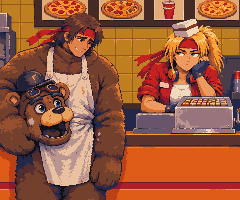
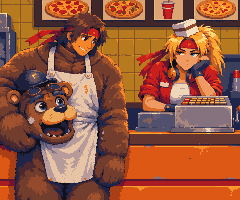
Space Voyagers II: the pause chip and TURN BACK on touch; art batch 2 final (rooms, endings, act cards, the Long Haul's sky) and its report

diff --git a/themes/voyagers2/render/index.ts b/themes/voyagers2/render/index.ts
@@ -19,7 +19,9 @@ import type { HudState } from './hud'
 import { computeLayout } from './layout'
 import type { Layout, Screen } from './layout'
 import { C, SPACE } from './palette'
-import { rect, textC } from './pix'
+import { frame as border, rect, textC } from './pix'
+
+const running = (w: Voyage): boolean => w.mission.stage === 'fly' || w.mission.stage === 'launch' || w.mission.stage === 'auto'
 import { createScene } from './scene'
 import type { Scene3D, SkyPiece } from './scene'
 
@@ -98,7 +100,21 @@ export function createRenderer(canvas: HTMLCanvasElement): Renderer {
       if (ui.paused) {
         rect(g, C.bakelite, 0, Math.floor(l.view.h / 2) - 14, l.W, 26)
         textC(g, 'PAUSED', l.W / 2, Math.floor(l.view.h / 2) - 9, C.gold)
-        textC(g, l.touch ? 'TAP TO GO ON' : 'P TO GO ON', l.W / 2, Math.floor(l.view.h / 2) + 2, C.textDim)
+        textC(g, l.touch ? 'TAP TO GO ON' : 'P TO GO ON · HOLD ESC TO TURN BACK', l.W / 2, Math.floor(l.view.h / 2) + 2, C.textDim)
+        if (l.touch) {
+          // Turning back: home to the Deep Dish, the sortie not flown.
+          const b = l.turnBack
+          rect(g, C.bakelite, b.x, b.y, b.w, b.h)
+          border(g, C.bezelHi, b.x, b.y, b.w, b.h)
+          textC(g, 'TURN BACK', b.x + b.w / 2, b.y + 6, C.text)
+        }
+      } else if (l.touch && running(w)) {
+        // The pause chip: two bars in the view's top-left corner.
+        const p = l.pause
+        rect(g, C.bakelite, p.x, p.y, p.w, p.h)
+        border(g, C.bezel, p.x, p.y, p.w, p.h)
+        rect(g, C.textDim, p.x + 6, p.y + 4, 2, 8)
+        rect(g, C.textDim, p.x + 10, p.y + 4, 2, 8)
       }
       out.drawImage(buffer, 0, 0, l.W * l.n, l.H * l.n)
     },

diff --git a/themes/voyagers2/Game.vue b/themes/voyagers2/Game.vue
@@ -398,12 +398,18 @@ function onTouchStart(e: TouchEvent): void {
   if (!usingTouch) { usingTouch = true; measure() }
   wake()
   if (!running) return
-  if (paused.value) { togglePause(); return }
+  if (paused.value) {
+    // Paused: TURN BACK leaves the sortie for the hub; anywhere else goes on.
+    const t = e.changedTouches[0]
+    if (t && inside(renderer.layout.turnBack, logical(t).x, logical(t).y)) { quit(); return }
+    togglePause()
+    return
+  }
   const l = renderer.layout
   for (const t of Array.from(e.changedTouches)) {
     const p = logical(t)
     // The pause chip in the view's top-left corner.
-    if (p.x < 22 && p.y < 22) { togglePause(); continue }
+    if (inside(l.pause, p.x, p.y)) { togglePause(); continue }
     const b = l.buttons
     if (b && inside(b.fire, p.x, p.y)) { fireId = t.identifier; ui.fire = true; continue }
     if (b && inside(b.msl, p.x, p.y)) { missileTap = true; continue }
@@ -486,6 +492,7 @@ function togglePause(): void {
 function quit(): void {
   const w = world
   if (!w || !running) return
+  if (paused.value) radio.suspend(false)
   paused.value = false
   w.mission.result = 'lost'
   w.mission.why = 'quit'

diff --git a/themes/voyagers2/render/layout.ts b/themes/voyagers2/render/layout.ts
@@ -42,6 +42,9 @@ export interface Layout {
   buttons: { fire: Rect; msl: Rect; burn: Rect } | null
   /** The site's radio widget over the view, in logical pixels: draw nothing there. */
   widget: Rect | null
+  /** Touch: the pause chip in the view's top-left corner, and the pause screen's TURN BACK button. */
+  pause: Rect
+  turnBack: Rect
 }
 
 export interface Screen {
@@ -144,9 +147,11 @@ export function computeLayout(s: Screen): Layout {
     }
   }
 
+  const pause: Rect = { x: 3, y: 3, w: 18, h: 16 }
+  const turnBack: Rect = { x: Math.floor(W / 2) - 36, y: Math.floor(view.h / 2) + 20, w: 72, h: 18 }
   return {
     W, H, n, cssW: (W * n) / dpr, cssH: (H * n) / dpr, css, wide, touch: s.touch,
-    view, dash, under, left, right, radar, gauges, sub, buttons, widget,
+    view, dash, under, left, right, radar, gauges, sub, buttons, widget, pause, turnBack,
   }
 }
 

diff --git a/themes/voyagers2/render/hud.ts b/themes/voyagers2/render/hud.ts
@@ -312,7 +312,7 @@ export function drawHud(g: G, l: Layout, w: Voyage, cam: THREE.PerspectiveCamera
     ring(g, sc, cx, cy, 7)
     ring(g, C.textLo, cx, cy, 14, 3)
     rect(g, sc, cx, cy, 1, 1)
-    text(g, 'TURRET', v.x + 24, v.y + 4, C.textDim, '#120d18')
+    text(g, 'TURRET', v.x + 26, v.y + 7, C.textDim, '#120d18')
   }
 
   // Incoming: a missile on its way to us.

diff --git a/scripts/voyagers2-lab/art/rooms.py b/scripts/voyagers2-lab/art/rooms.py
@@ -9,8 +9,14 @@ the game reads, and an enlargement of each room with its boxes drawn over it for
 How they were measured (2026-10-16): the boards and the television screen by their colour
 (measure.py, then each box checked to hold that one colour; finish.py paints the same boxes
 flat); the people and the things by eye on a 4x grid (grid.py), each box from the top of the
-head or hat to the lowest part shown and across the arms. A person's box may overlap a thing
-behind them (Mei and the radio, Tiny and the Calzone's tail): the game should test people first.
+head or hat down and across the arms.
+
+Which box a tap hits: people first, then among things the smallest box. No person's box
+reaches over a thing that stands in front of them: Nonna's ends at the counter (the pizza is
+on it), Dougie's at his scooter's top, Duo's before the television (his boots, on the couch's
+arm, are left out), Marge's right of the arcade cabinet's strip (her elbow on it is left out).
+A person's box does reach over things behind them (Mei over the radio's right part, Tiny over
+the Calzone's tail and the door), and things overlap things (the Calzone stands in the door).
 
 - board: the part of the chalkboard clear of every head (code draws the map or the killboard
   there). The kitchen's whole board is (52, 12, 75, 44): Nonna's bun covers its lower right
@@ -28,7 +34,7 @@ ROOT = os.path.abspath(os.path.join(HERE, "..", "..", ".."))
 
 ROOMS = {
     "room-kitchen": {
-        "nonna": [68, 45, 86, 85],      # behind the counter, from her bun to the counter's top, hand to hand
+        "nonna": [68, 46, 86, 73],      # behind the counter, from her bun to the counter's top, hand to hand
         "mei": [18, 52, 48, 118],       # on her stool at the radio, from her hair to her shoes
         "board": [52, 12, 75, 34],
         "oven": [164, 0, 76, 112],      # the brick oven, its flue and its mouth
@@ -38,18 +44,18 @@ ROOMS = {
     },
     "room-hangar": {
         "tiny": [144, 58, 96, 122],     # from his goggles down, cut by the bottom edge
-        "dougie": [0, 63, 44, 117],     # from his cap down, behind his scooter
+        "dougie": [0, 63, 44, 59],      # from his cap down to his scooter's top
         "calzone": [40, 34, 148, 66],   # the ship on its struts, canopy to struts
         "moped": [10, 122, 110, 50],    # Dougie's little red scooter-fighter, the pizza box on it
         "door": [44, 14, 154, 82],      # the oven-door mouth onto space (launch)
     },
     "room-breakroom": {
-        "marge": [2, 30, 68, 137],      # leaning on the arcade cabinet, cap to boots
-        "ridley": [72, 60, 42, 108],    # on the couch, the cat on her shoulder in the box
-        "duo": [124, 61, 88, 75],       # lounging, cap to boots on the couch's arm
+        "marge": [14, 30, 56, 137],     # leaning on the arcade cabinet, cap to boots
+        "ridley": [72, 61, 42, 107],    # on the couch, the cat on her shoulder in the box
+        "duo": [124, 61, 56, 75],       # lounging: cap, jacket and knees
         "board": [81, 28, 81, 33],
         "tv": [180, 68, 24, 21],
-        "arcade": [0, 22, 20, 138],     # the arcade cabinet, mostly behind Marge
+        "arcade": [0, 22, 14, 138],     # the arcade cabinet's strip left of Marge
         "vending": [210, 20, 30, 126],
     },
 }

diff --git a/scripts/voyagers2-lab/art/finish.py b/scripts/voyagers2-lab/art/finish.py
@@ -265,7 +265,8 @@ ENDINGS = {
     # won: moved up from the middle (9, 27) so Tiny's goggles are whole; the counter's front
     # pizzas lose their lower rows
     "card-ending-won": ("card-ending-won-a", (9, 20), []),
-    "card-ending-lost": ("card-ending-lost-b", None, []),
+    # lost: the third pass (c, over the second; the same picture, its prompt with every block)
+    "card-ending-lost": ("card-ending-lost-c", None, []),
 }
 ACTS = {
     # act 1 (257 x 142): two rows from the top, so the Deep Dish's chimney is whole
@@ -280,11 +281,12 @@ ACTS = {
 # Mends by hand, after the window is taken: (x, y, w, h, colours replaced, top row's colour,
 # the rest's colour), every colour as hex and already in the picture. Nova's t-shirt is a crew
 # neck by the rule (prompt block `nova`: "no cleavage"); in both endings it came back as a
-# scoop three to four rows deep with a darker pixel or two in its middle. The skin in the box
-# under her neck becomes the shirt's collar shade (top row) and its cream (below).
+# scoop three to four rows deep with a darker pixel or two in its middle (the lost one three
+# times over, the third time with the crew neck asked for outright). The skin in the box under
+# her neck becomes the shirt's collar shade (top row) and its cream (below).
 MEND = {
     "card-ending-won": [(78, 144, 16, 5, ("f5a260", "d87330", "e5843f", "bc5633", "bc7b4c"), "c4a4ae", "f4ddc5")],
-    "card-ending-lost": [(173, 84, 17, 4, ("ed9a61", "d86f2f", "c65e1d", "8d3820"), "ba948e", "f1d9bb")],
+    "card-ending-lost": [(173, 83, 16, 4, ("f09a63", "d96d27", "ca6323", "f48528", "dd5814", "bb4d16"), "ab9197", "efd6b6")],
 }
 
 

diff --git a/scripts/voyagers2-lab/REPORT-art.md b/scripts/voyagers2-lab/REPORT-art.md
@@ -85,3 +85,46 @@ row give identical files. Every file was also looked at at 3x or 4x.
 - Sprites: the slice's bite is faint at 13 x 15; faces from `sprites-e`, heads from `sprites-d`.
 - Rebuild: `sh scripts/voyagers2-lab/art/make.sh`; run `make.sh sky` before re-running b04 or
   b05 (their canvases read `tmp/voyagers2-art/parts/sky-first` and `sky-second`).
+
+# Batch 2: rooms, endings, act cards, the Long Haul's sky
+
+2026-10-16. 13 orders of the batch's cap of 40, none failed, about $0.51 (same rate, not checked
+against a bill). 11 indexed PNGs added to `public/voyagers2/`, all through nova's gate and looked
+at at 3–4x; batch 1's 29 files are byte-identical; two `make.sh` runs give identical files. Contact
+sheet: `tmp/voyagers2-art/proof/batch2.png` (git-ignored).
+
+| File | Size | Note |
+|---|---|---|
+| room-kitchen, room-hangar, room-breakroom | 240 x 180 | the crew in them; boxes in `art/rooms.json` (copied to `themes/voyagers2/roomSpots.json`) |
+| card-ending-won, card-ending-lost | 240 x 200 | |
+| card-act-1, card-act-2, card-act-3 | 240 x 120 | no lettering (titles are drawn by code) |
+| sky-truckstop / sky-markers / sky-buoy | 159 x 77 / 138 x 54 / 53 x 80 | asked about 140 x 80, 160 x 50, 48 x 64 |
+
+Orders: room-kitchen-a (pilot, kept), card-ending-won-a (kept), room-breakroom-a (kept),
+room-hangar-a (kept), card-act-1-a (kept), card-act-2-a (no 240 x 120 crop held both sign and
+rig), card-ending-lost-a (a Freddy-like head and a bare chest under the costume: not shipped),
+sky-b2-a (truck stop and markers kept, buoy too big), card-act-3-a (kept after re-snapping with
+`--min-sep 0.034`), card-act-2-b (kept), card-ending-lost-b (its prompt lacked the `rex` and
+`nova` blocks), sky-b2-fix (the smaller buoy), card-ending-lost-c (ships).
+
+## For Petter to judge (batch 2)
+
+- The bear costume head in the lost ending: the second pass gave it this game's bear (flight
+  helmet and goggles under the bowler, a rubbed patch, the jaw on bolts), but it is still a brown
+  bear with blue glass eyes and a black nose.
+- Nova's neckline in both endings was drawn as a low scoop even when a crew neck was asked for;
+  `finish.py` (`MEND`) recolours 68 and 44 skin pixels to the shirt's colours so it reads as a crew neck.
+- The won ending's soda bottles are dark with red-and-white labels, no letters, cola-like.
+- The Calzone in the hangar is longer and slimmer than the title card's; act 1's Deep Dish is
+  mid-size; the truck-stop signs are a coffee cup and an arrow; the big buoy carries a "52"-like
+  smudge; act 2's rig loses a few rows of its wheels at the bottom edge.
+- The oven fire, the hangar lamps and act 3's soft band look like flat clusters at 8x, not halos.
+
+## Notes (batch 2)
+
+- Taps resolve people first, then the smallest thing. The `board` boxes are only the part of each
+  chalkboard no head covers; whole boards are (52, 12, 75, 44) and (81, 26, 81, 38). Boards and
+  the TV screen are one flat colour so code can draw on them.
+- Lab changes: `gen.py` caps per batch, `gate.sh` gates the rooms, `make.sh` has the sets
+  `rooms endings acts sky2`, `finish.py` the sections `ROOMS ENDINGS ACTS MEND SKY2`, `proof.py 3 2`
+  makes the batch-2 sheet.

diff --git a/scripts/voyagers2-lab/art/README.md b/scripts/voyagers2-lab/art/README.md
@@ -1,6 +1,6 @@
 # voyagers2-lab/art: the bitmaps of Space Voyagers II
 
-The lab that makes the pixel art in `public/voyagers2/` (40 files, 151 KB as of 2026-10-16):
+The lab that makes the pixel art in `public/voyagers2/` (40 files, 143 KB as of 2026-10-16):
 talk portraits, the title card, sky pieces for the 3D backdrop, mascot decals and heads on
 springs (batch 1); the three rooms of the Deep Dish, the two endings and the three act cards
 (batch 2). It is Space Voyagers I's lab (`scripts/galaga-lab/art/README.md`) cut down to these
@@ -19,7 +19,7 @@ gate, then look. What the game is: `themes/voyagers2/DESIGN.md`.
 
 The raw generations are in `tmp/voyagers2-art/raw` (git-ignored). Without them a picture has
 to be ordered again: `log.jsonl` has every order with its full prompt and inputs, `batches/`
-the scripts that ran them, in order (b01 to b05 batch 1, b06 to b08 batch 2). The style images
+the scripts that ran them, in order (b01 to b05 batch 1, b06 to b09 batch 2). The style images
 are built by `layouts.py` from Space Voyagers I's shipped bitmaps in `public/galaga/`; batch 2's
 canvases by `layouts2.py`, which reuses its helpers.
 
@@ -68,7 +68,7 @@ Change one, change both, and run `rooms.py` to look at them.
   to 18 x 27). Pasted at 12 the faces came back 13 to 16 and still read; the heads on springs
   turned to mush at 15 x 20, so the larger ones ship.
 
-Batch 2 (12 orders, none failed):
+Batch 2 (13 orders, none failed):
 
 - **Scenes with people** hold in one order with three images: a block canvas, a style image
   at the canvas's cell size (Space Voyagers I's ending card) and a cast strip of the people's
@@ -88,9 +88,14 @@ Batch 2 (12 orders, none failed):
 - **The lost ending's costume head** came back as a brown bear with a black hat and blue eyes
   and no flight helmet, too close to a famous animatronic bear; a second pass over the
   picture gave it this game's bear (flight helmet and goggles under the bowler, a rubbed
-  patch, the jaw on bolts) and closed the costume over Rex's chest.
-- **Nova's t-shirt** came back as a low scoop in both endings; `finish.py` `MEND` raises it to
-  a crew neck (skin in an exact box under her neck becomes the shirt's colours).
+  patch, the jaw on bolts) and closed the costume over Rex's chest. Its prompt lacked the
+  `rex` and `nova` blocks; a third pass over it with them (and the crew neck asked for
+  outright) came back the same picture, and ships.
+- **Nova's t-shirt** came back as a low scoop in both endings, also when a crew neck was asked
+  for outright; `finish.py` `MEND` raises it to a crew neck (skin in an exact box under her
+  neck becomes the shirt's colours).
+- `make.sh endings` must run before `batches/b09` is run again (its canvas is the second
+  pass's snap).
 - **Sky pieces of acts 2 and 3**: three on green, cut by region (the four mile markers stand
   apart and ship as one piece). The large buoy came back 63 x 92 for about 48 x 64; shrunk
   to 42 x 61 and redrawn, it came back 53 x 80. Their own palette (`pal/sky2.json`): the
